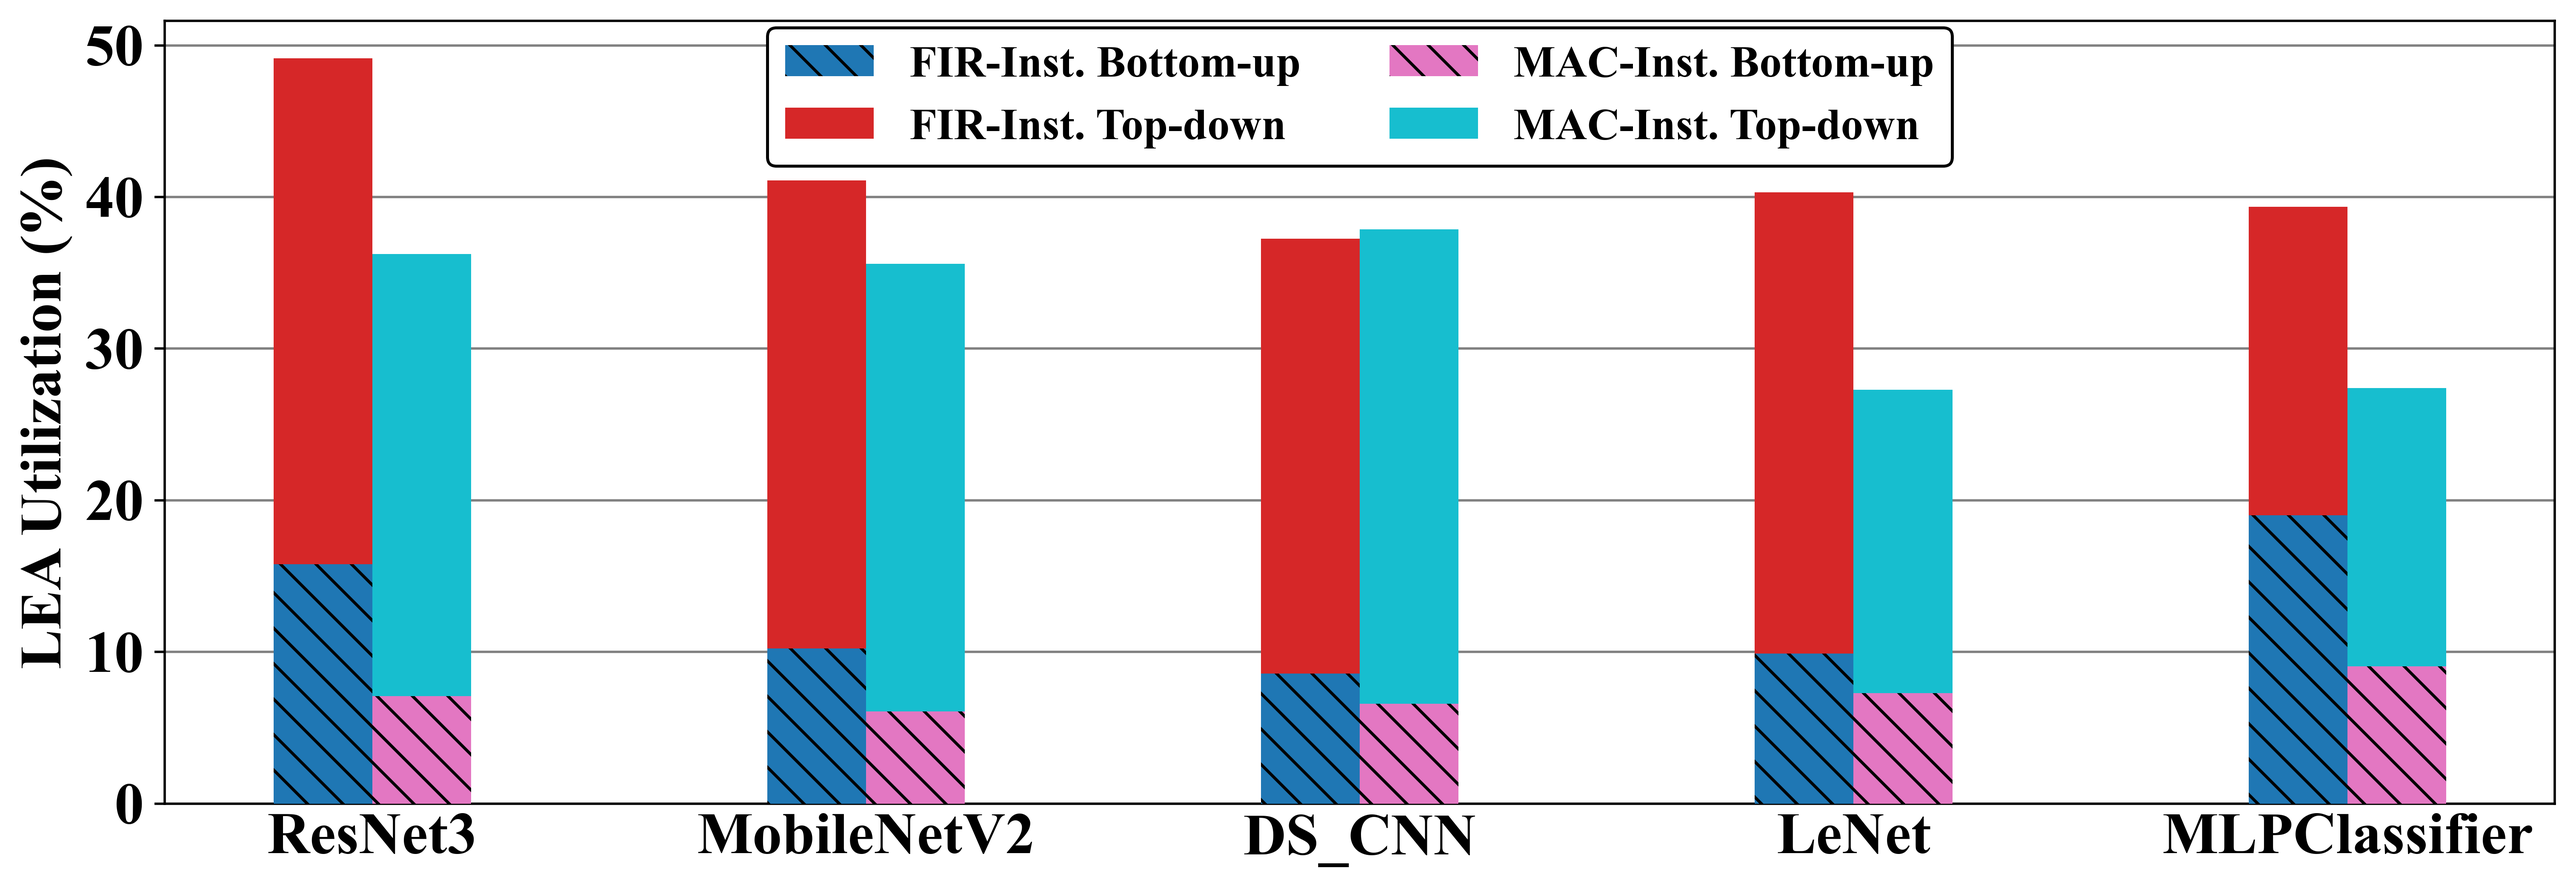
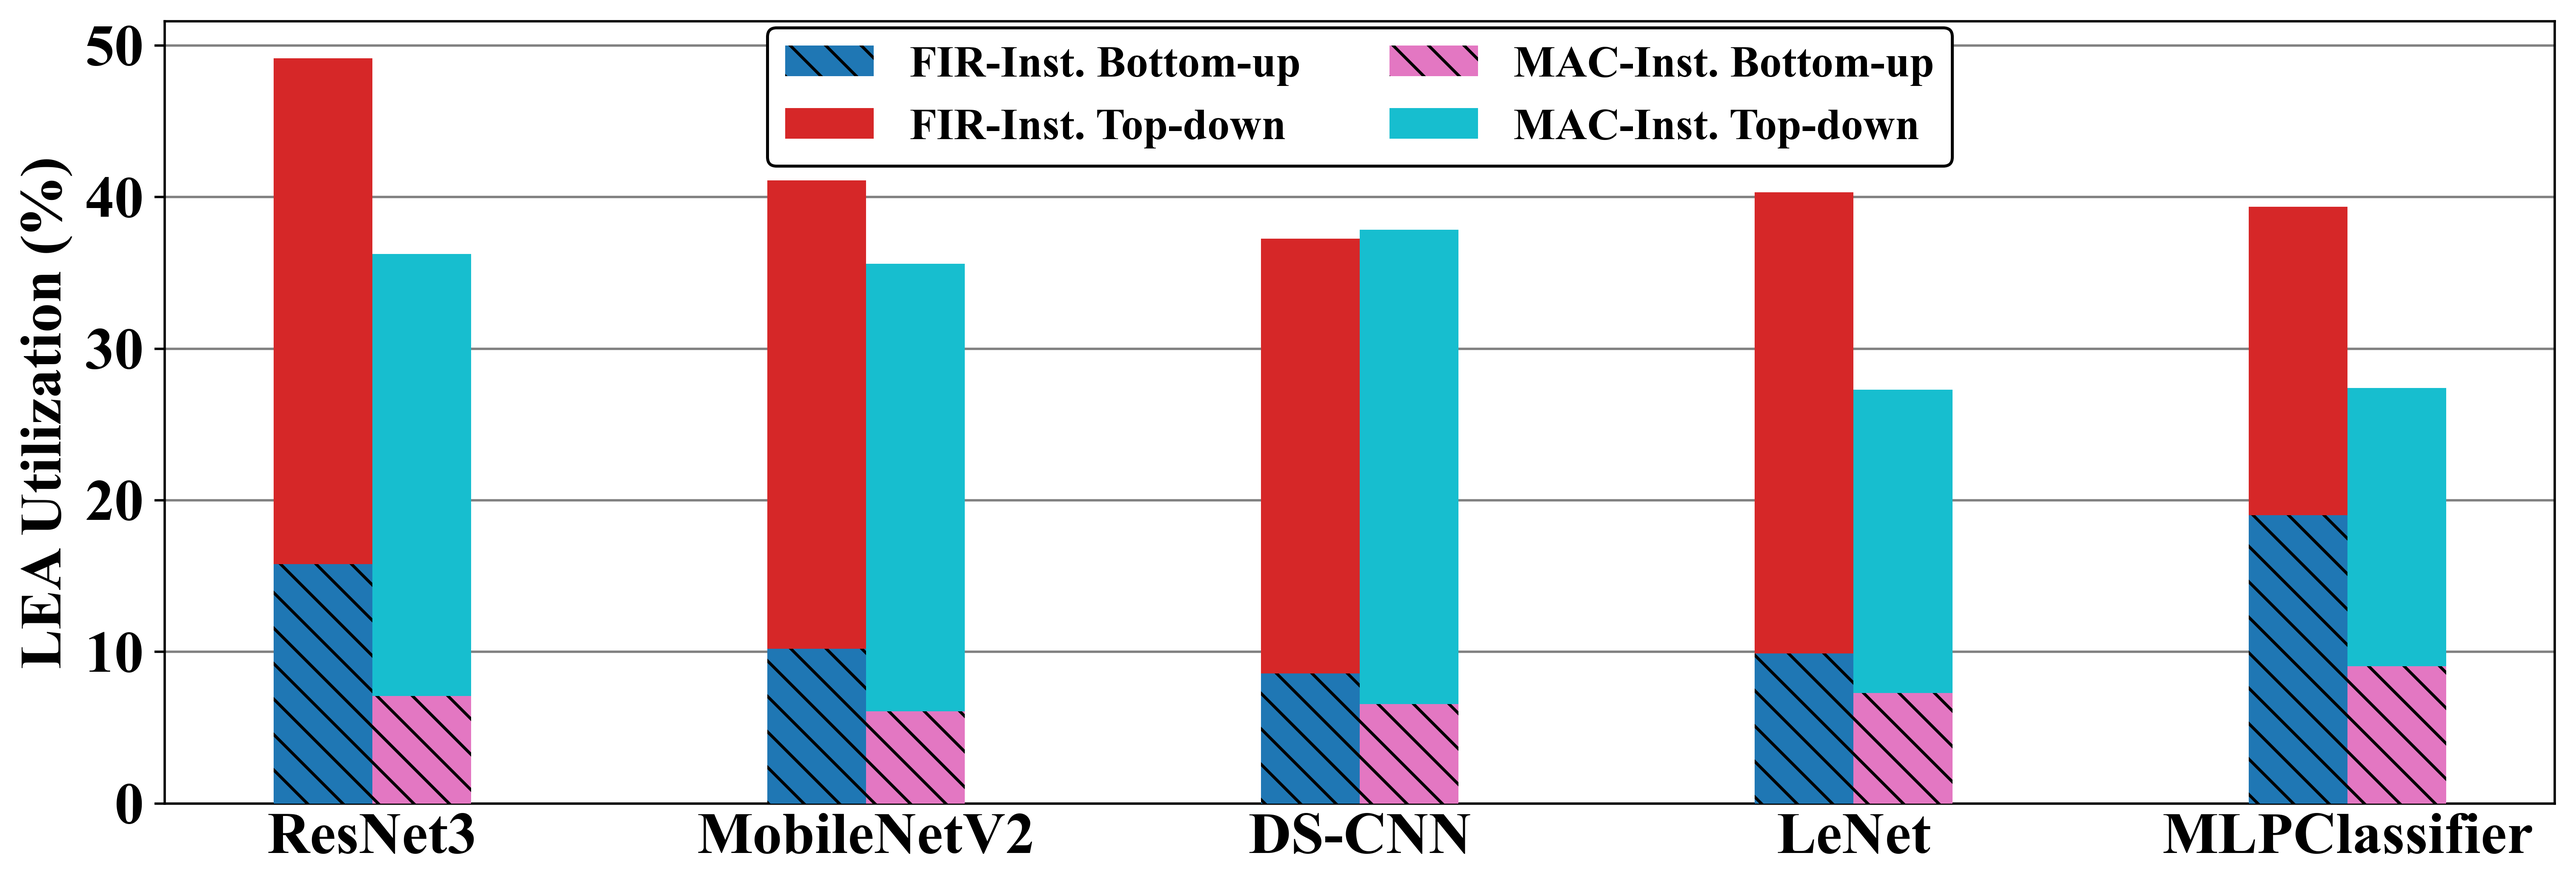
update

diff --git a/logs/utilization/plot.py b/logs/utilization/plot.py
@@ -50,6 +50,10 @@ mac_opt_values = [
     for model in models
 ]
 
+for i in range(len(models)):
+    if models[i] == 'DS_CNN':
+        models[i] = 'DS-CNN'
+
 x = np.arange(len(models))
 width = 0.2
 cmap = plt.get_cmap('tab10')
